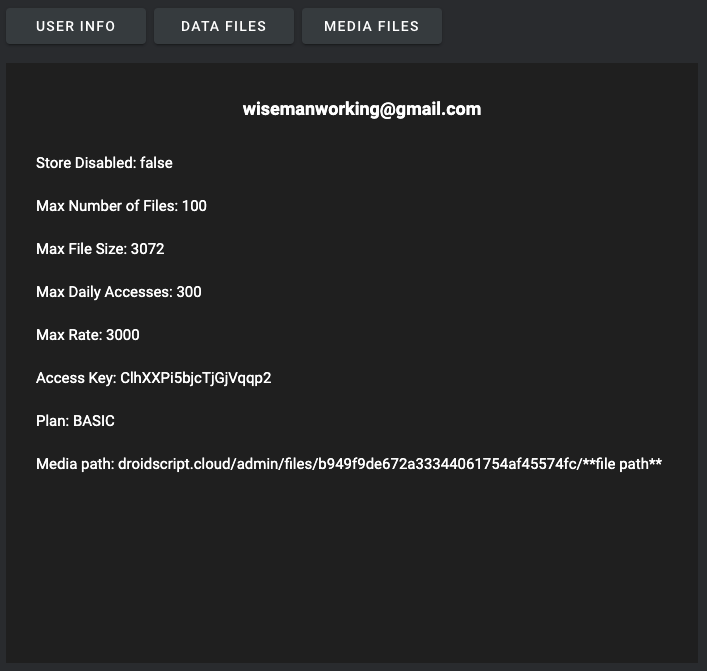
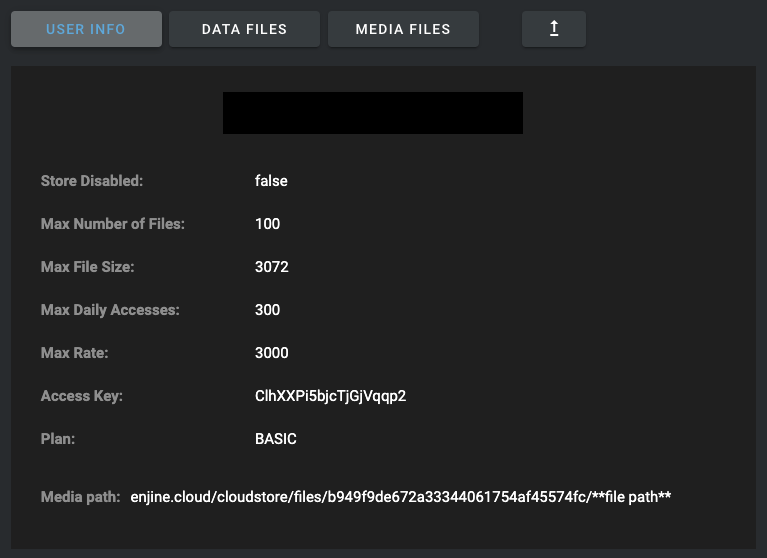
more updates

diff --git a/source/stylesheets/screen.css.scss b/source/stylesheets/screen.css.scss
@@ -644,7 +644,7 @@ html, body {
 /*.content > h2, .content > div {
   clear: none !important; }
 */
-.logo { margin-top:1rem; }
+.logo { display:none !important; /*margin-top:1rem;*/ }
 /*.logo:after { content:'CloudStore'; display:block; color: #fff; font-size:1rem; }*/
 /*.content>h1:first-child::before { content:"CloudStore"; font-size:1.1rem; font-weight:600; color:#fff; }*/
 .notice-right { background-color:#1f75d4 !important; padding-left:1rem; padding-right:1rem }
@@ -667,4 +667,6 @@ html, body {
     background-color: transparent !important;
     margin-left: 2rem !important; 
   width:auto !important; }
+  #img-overview { width:50%; }
+  .toc-wrapper { padding-top:2rem; }
 }

diff --git a/source/notes.md b/source/notes.md
@@ -26,10 +26,22 @@ ClhXXPi5bjcTjGjVqqp2
 - Document dashboard (cloudstore control panel)
 - write demo code to test
 
+===================
 - Sub headings for web page:
   - Data
   - Media
   - Dashboard
+
+  - Examples for password protection 
+  - News updates - (data): select editors allowed update the data file with a password prompt
+  - News flash or promotion image - Loaded through CloudStore dashboard or special admin app or admin mode/section with password prompt
+  - Media paths are unique and unguessable (non sequential) for safe sharing publically or privately
+  - E-commerce
+
+ - Add warning to not hard code password into code (use warning alert)
+
+ - Add password argument for media Upload function
+===================
 
 ## DONE
 
